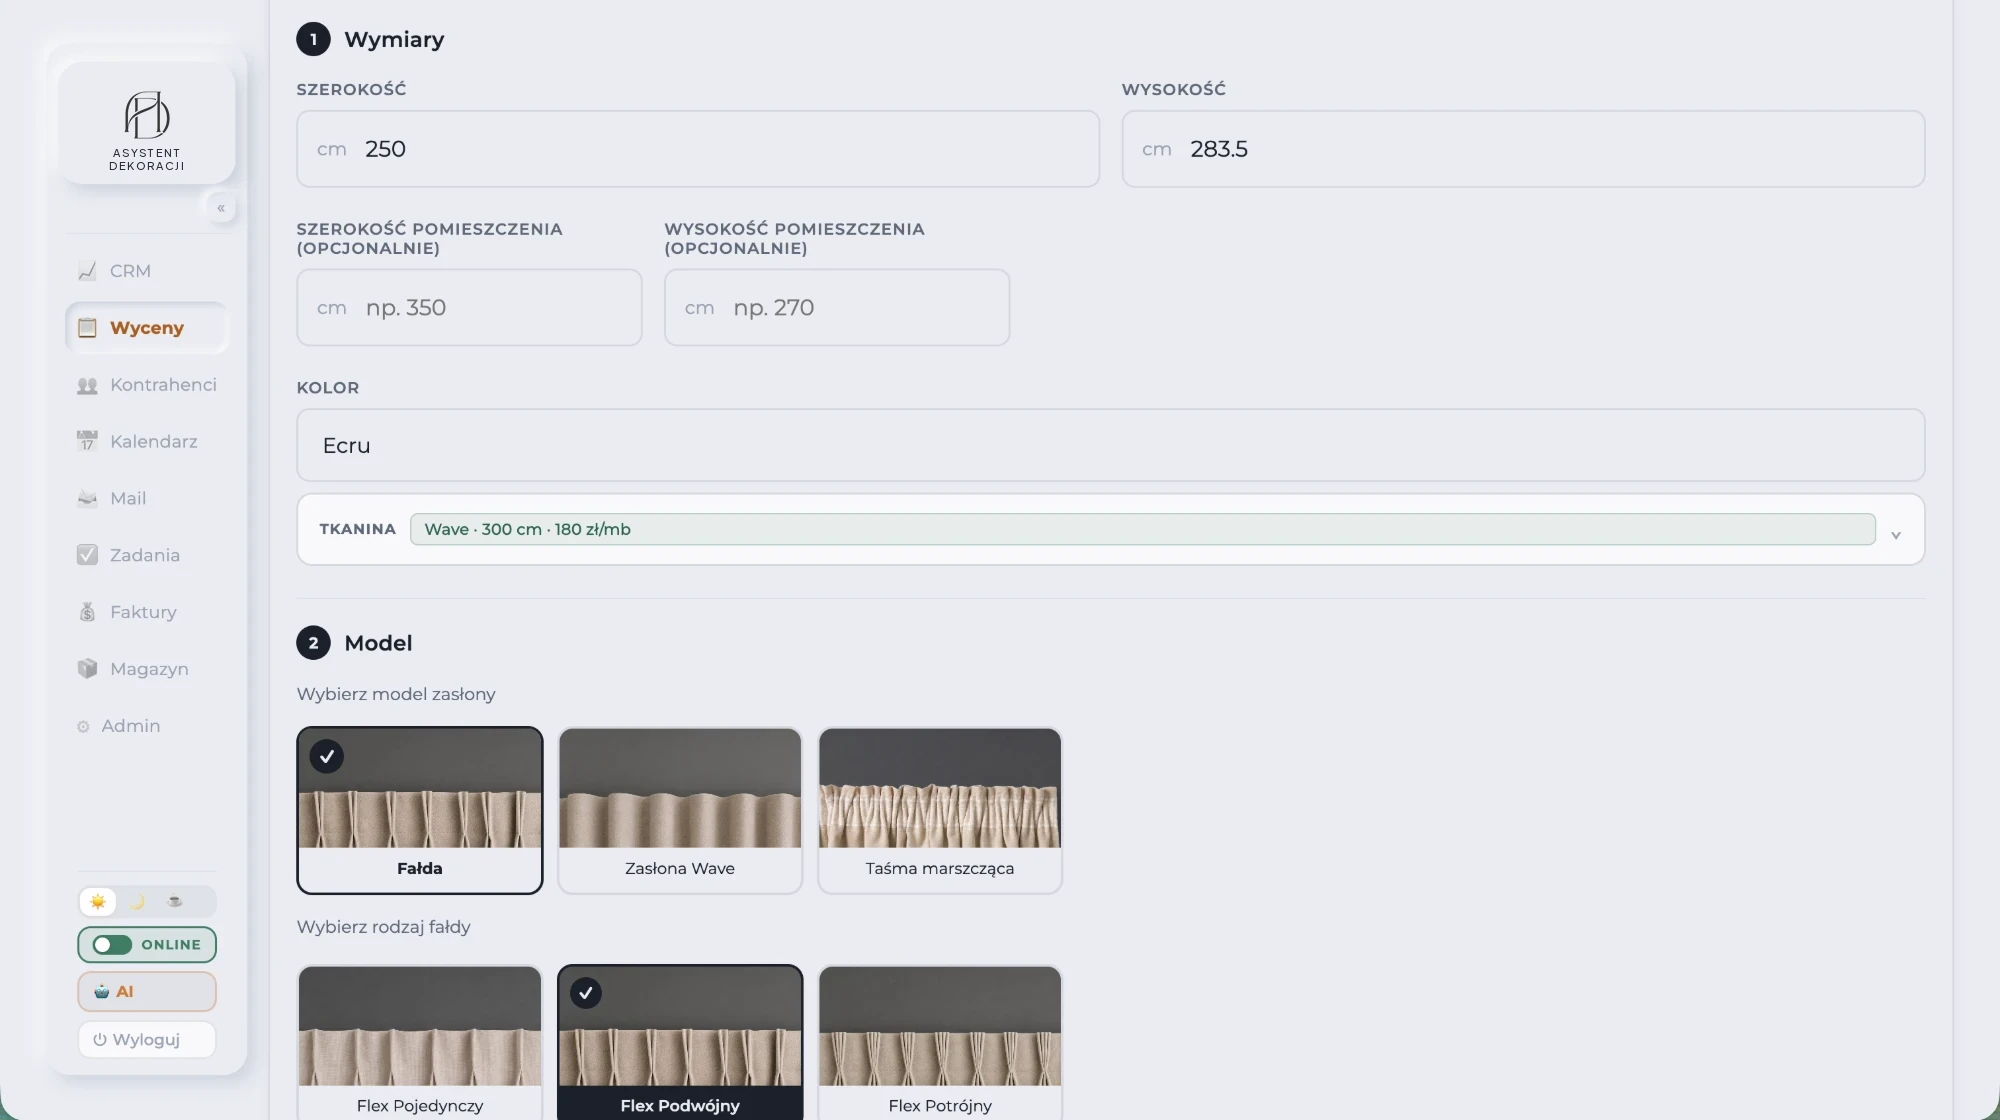
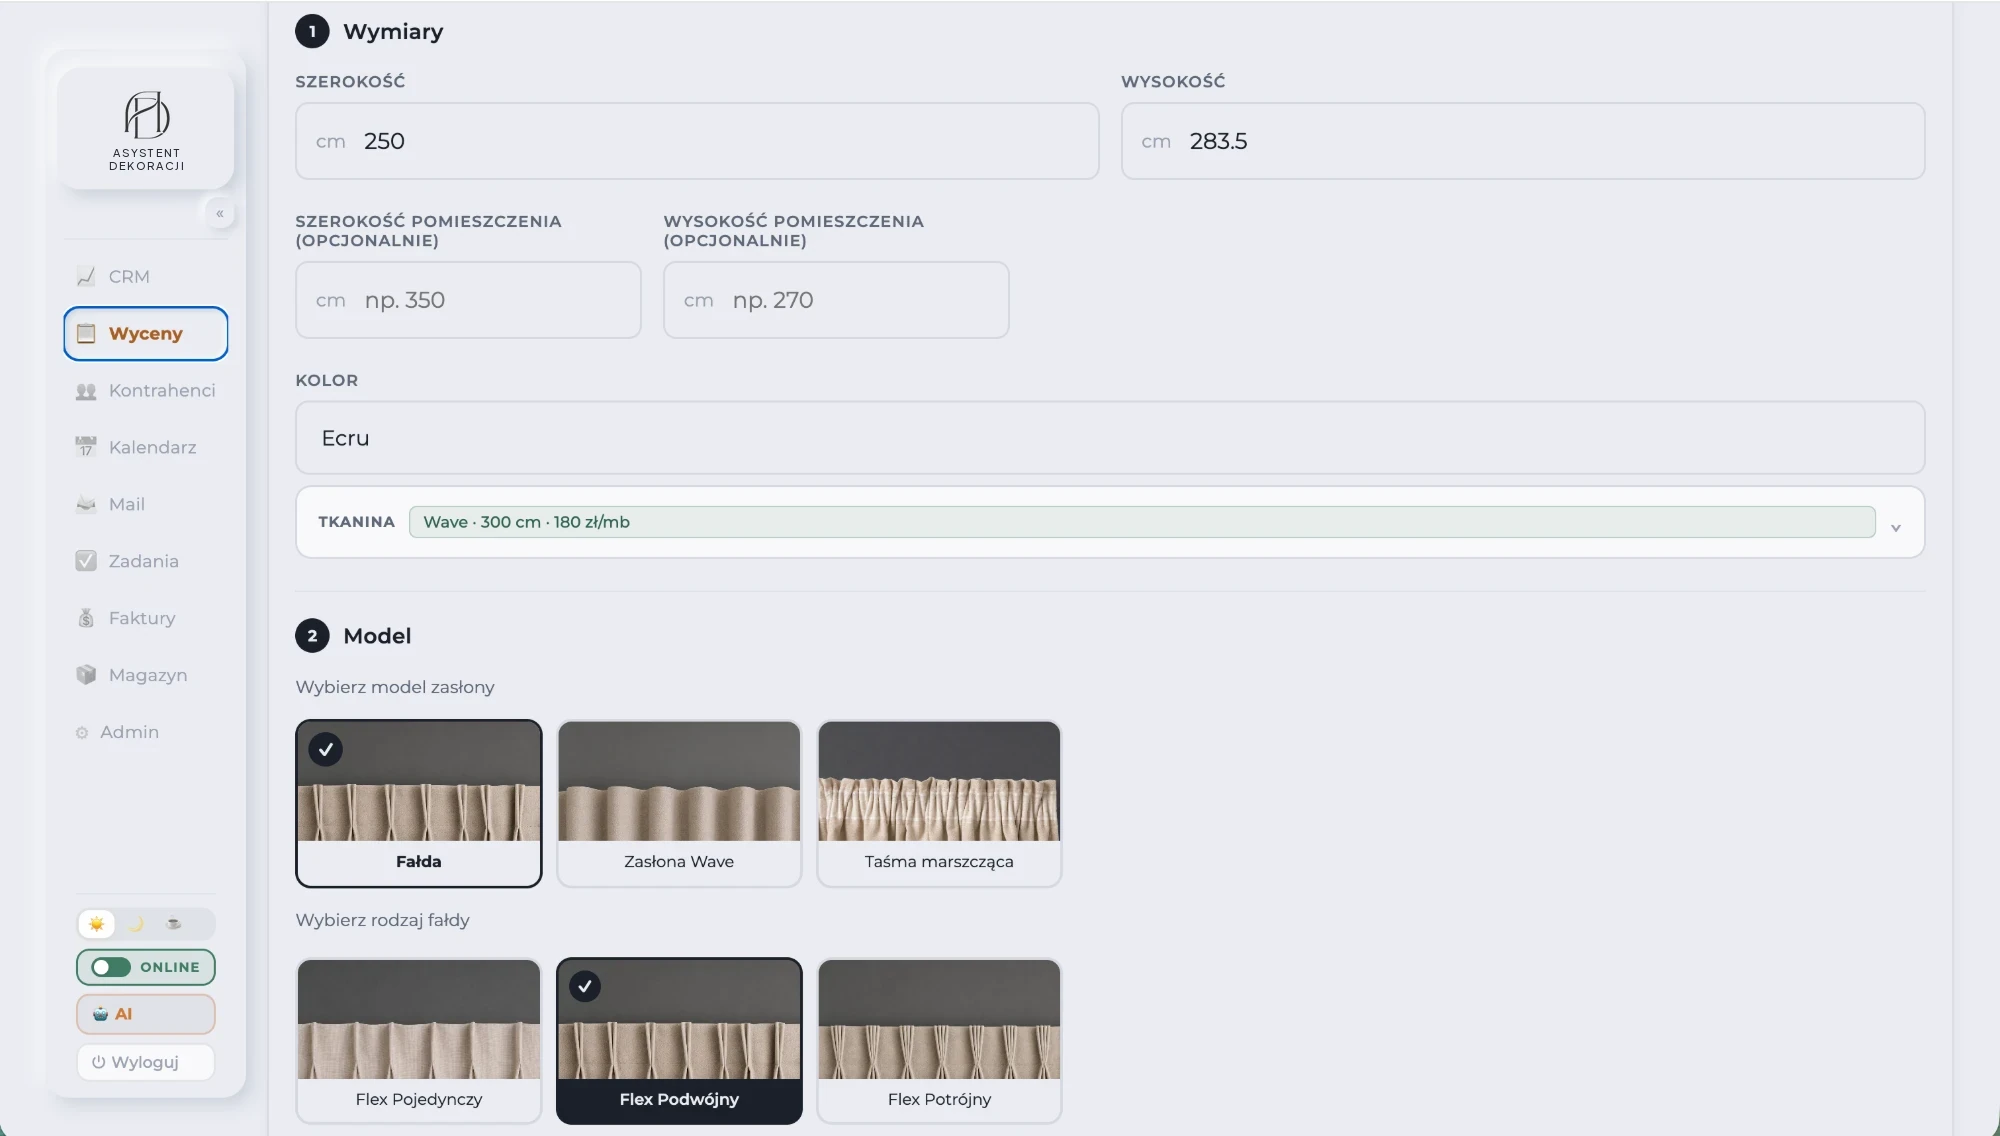
Landing: hero (wycena, CRM, karta deala) i sekcja dokumentów z wyceny zgodne z aktualnymi przyciskami
Claude-Session: https://claude.ai/code/session_01RR3XgaYxKtbUc5HZ1smj36

diff --git a/landing.html b/landing.html
@@ -122,6 +122,7 @@
   .feat-list li { font-size: 14px; color: var(--ink2); line-height: 1.55; padding-left: 26px; position: relative; font-weight: 300; }
   .feat-list li::before { content: "✓"; position: absolute; left: 0; top: 0; color: #2f9e6b; font-weight: 700; }
   .feat-list li b { color: var(--ink); font-weight: 500; }
+  .pdf-shot { margin-top: 2.2rem; }
   .feat-row:has(.shot-frame) { grid-template-columns: 0.8fr 1.2fr; max-width: 1240px; gap: 2.6rem; }
   .feat-row.reverse:has(.shot-frame) { grid-template-columns: 1.2fr 0.8fr; }
   .feat-row.deal { grid-template-columns: 0.8fr 1.2fr; }
@@ -283,8 +284,8 @@
 
     <div class="hero-visual">
       <div class="hero-stack">
-        <img class="stack-img card-1" src="/wyceny-wymiary.webp" alt="Wymiary, kolor i tkanina w konfiguratorze wyceny">
-        <img class="stack-img card-2" src="/wyceny-model.webp" alt="Wybór modelu zasłony i rodzaju fałdy">
+        <img class="stack-img card-1" src="/wyceny-wymiary.webp" alt="Wycena: wymiary, kolor, tkanina i model zasłony">
+        <img class="stack-img card-2" src="/crm-kanban.webp" alt="Tablica CRM z etapami zleceń">
         <img class="stack-img card-3" src="/crm-deal-card.webp" alt="Karta deala w CRM: rozliczenie, etapy zamówienia, deadline">
       </div>
       <p class="trust-line"><strong>Stworzona przez specjalistów dla specjalistów.</strong> Testowana miesiącami na realnych zleceniach dla klientów premium — powstała z codziennej pracy w studiu, nie z listy życzeń.</p>
@@ -344,14 +345,14 @@
       <h3 class="pdf-pipeline-title">A z wyceny wychodzi wszystko, czego potrzebujesz</h3>
       <p class="pdf-pipeline-sub">Jeden przycisk — komplet dokumentów gotowy do wysyłki, produkcji i montażu.</p>
       <div class="pdf-grid">
-        <div class="pdf-card"><div class="pdf-card-icon">📄</div><div class="pdf-card-name">Wycena PDF</div></div>
+        <div class="pdf-card"><div class="pdf-card-icon">📄</div><div class="pdf-card-name">Wycena szczegółowa</div></div>
         <div class="pdf-card"><div class="pdf-card-icon">📋</div><div class="pdf-card-name">Wycena uproszczona</div></div>
         <div class="pdf-card"><div class="pdf-card-icon">✉</div><div class="pdf-card-name">Mail do klienta</div></div>
         <div class="pdf-card"><div class="pdf-card-icon">🧵</div><div class="pdf-card-name">Zamówienie tkaniny</div></div>
-        <div class="pdf-card"><div class="pdf-card-icon">🪝</div><div class="pdf-card-name">Zamówienie karniszy</div></div>
-        <div class="pdf-card"><div class="pdf-card-icon">🔩</div><div class="pdf-card-name">Szyny do montażu</div></div>
+        <div class="pdf-card"><div class="pdf-card-icon">🔩</div><div class="pdf-card-name">Zamówienie osprzętu</div></div>
         <div class="pdf-card"><div class="pdf-card-icon">✂</div><div class="pdf-card-name">Zlecenie szycia</div></div>
       </div>
+      <div class="shot-frame pdf-shot"><img src="/wyceny-podsumowanie.webp" alt="Podsumowanie wyceny z przyciskami: wycena szczegółowa, uproszczona, mail do klienta, zamówienie tkaniny i osprzętu, zlecenie szycia" loading="lazy"></div>
     </div>
   </div>
 </section>
